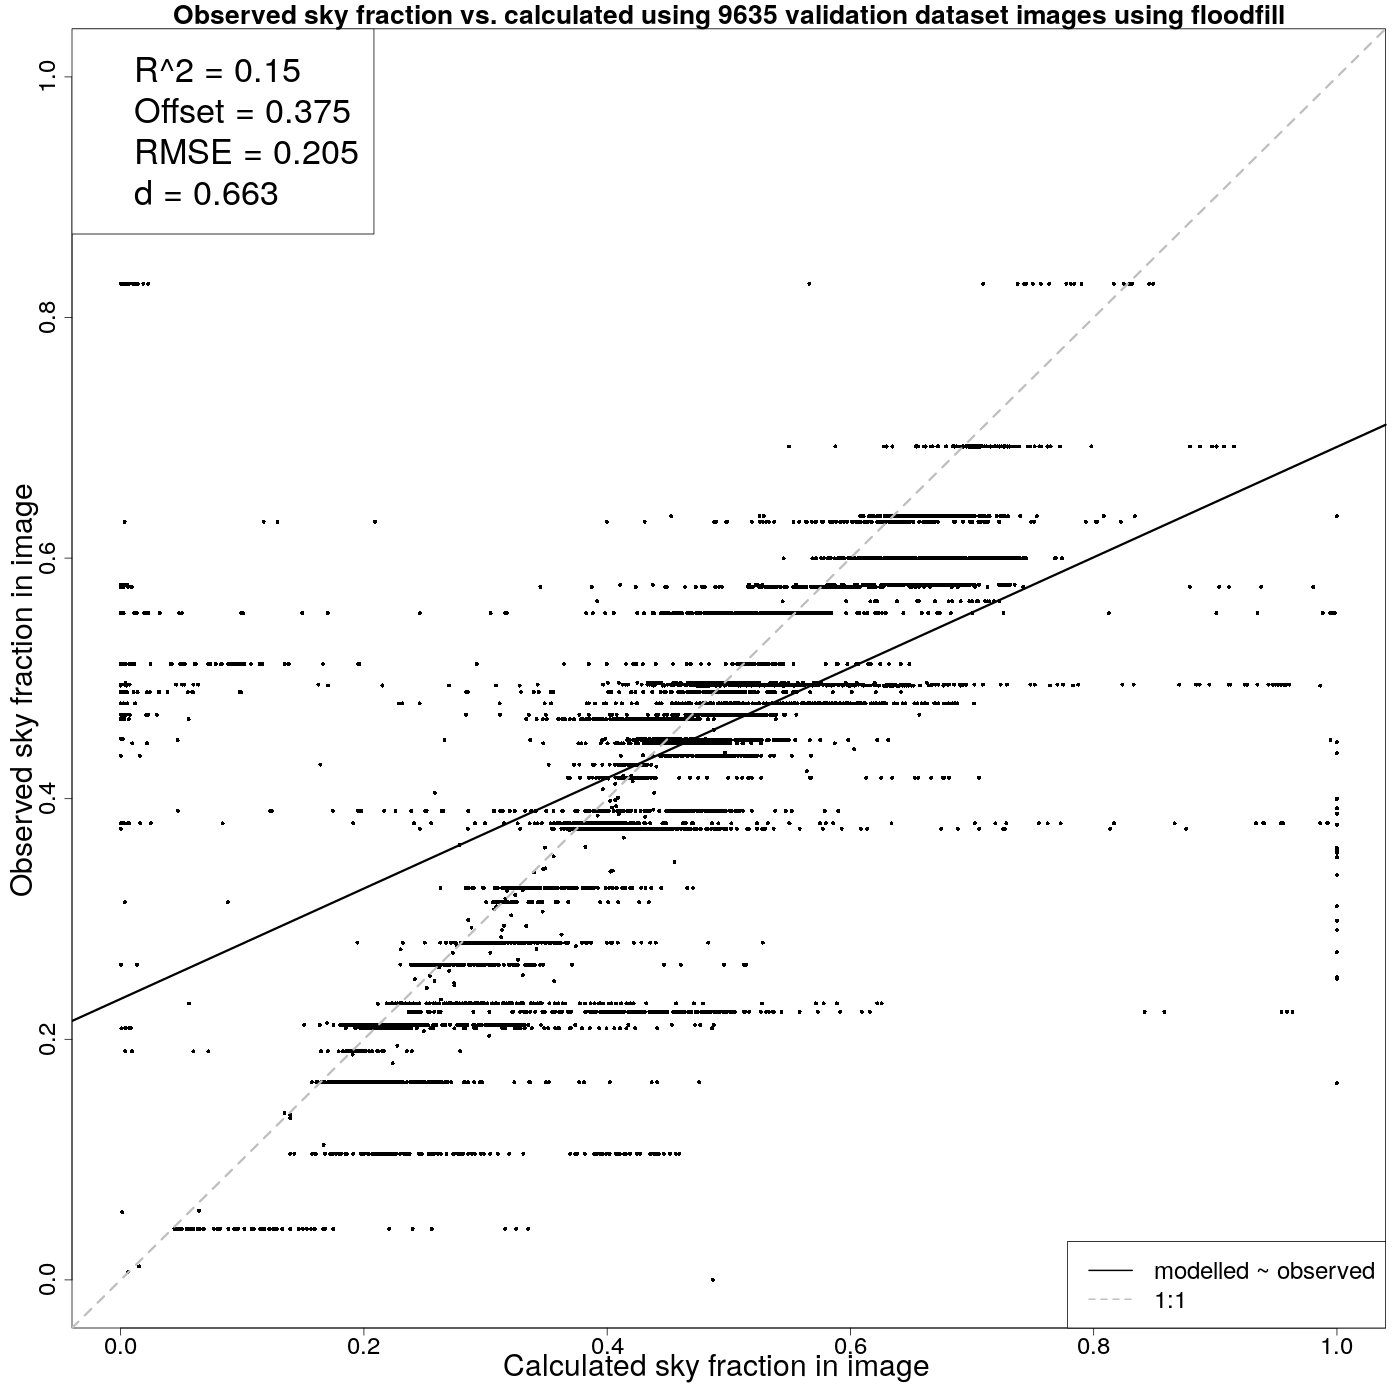
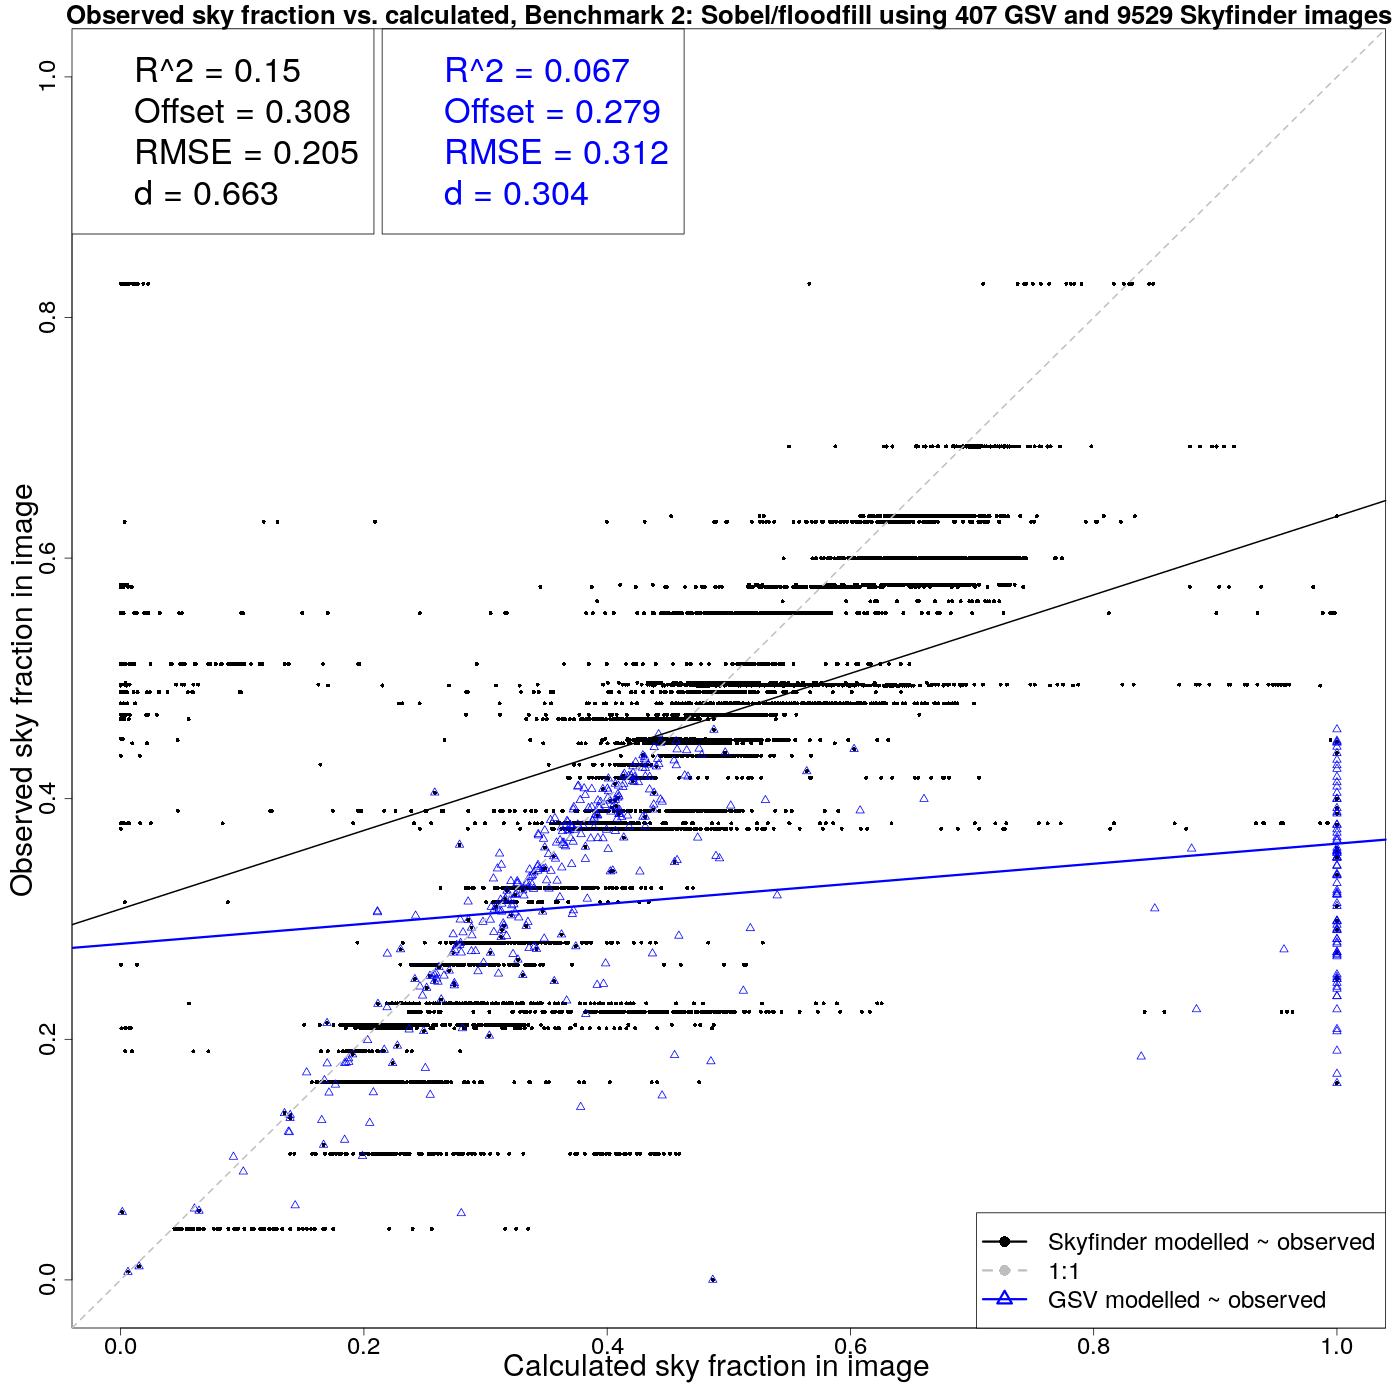
Finished updating figures

diff --git a/UrbanClimateICUC10-SVF.tex b/UrbanClimateICUC10-SVF.tex
@@ -440,7 +440,7 @@ Sobel/flood-fill&0.134&0.211&0.067&0.312 \\
 % cp -u /home/kerryn/git/2018-03-MasterITProject/SkyViewDetection/SkyfinderEvaluationOutput/Plots/ErrorPlotsGSVandSMean_7_8_300.png /home/kerryn/git/2019-01-UrbanClimateSVF/Images/ErrorPlotsCombinedIndivMean_7_8_300.png
 \textbf{c)}\includegraphics[scale=0.15]{Images/ErrorPlotsCombinedIndivKmean6.png}
 % R CMD BATCH /home/kerryn/git/2018-03-MasterITProject/SkyViewDetection/SkyfinderEvaluationOutput/Plots/scriptCombinedIndiv_Kmean6.R
-% cp -u /home/kerryn/git/2018-03-MasterITProject/SkyViewDetection/SkyfinderEvaluationOutput/Plots/ErrorPlotsCombinedIndivKmean6.png /home/kerryn/git/2019-01-UrbanClimateSVF/Images/ErrorPlotsCombinedIndivKmean6.png
+% cp -u /home/kerryn/git/2018-03-MasterITProject/SkyViewDetection/SkyfinderEvaluationOutput/Plots/ErrorPlotsGSVandSKmean6.png /home/kerryn/git/2019-01-UrbanClimateSVF/Images/ErrorPlotsCombinedIndivKmean6.png
 \textbf{d)}\includegraphics[scale=0.15]{Images/ErrorPlotsCombinedIndivSobel70.png}
 % R CMD BATCH /home/kerryn/git/2018-03-MasterITProject/SkyViewDetection/SkyfinderEvaluationOutput/Plots/scriptCombinedIndiv_Sobel70.R
 % cp -u /home/kerryn/git/2018-03-MasterITProject/SkyViewDetection/SkyfinderEvaluationOutput/Plots/ErrorPlotsGSVandSSobel70.png /home/kerryn/git/2019-01-UrbanClimateSVF/Images/ErrorPlotsCombinedIndivSobel70.png
@@ -535,11 +535,11 @@ In the evaluation of the Sobel/flood-fill algorithm, results from the Skyfinder 
 % R CMD BATCH /home/kerryn/git/2018-03-MasterITProject/SkyViewDetection/SkyfinderEvaluationOutput/Plots/scriptCombinedIndivVal_Sobel70.R
 %  cp -u /home/kerryn/git/2018-03-MasterITProject/SkyViewDetection/SkyfinderEvaluationOutput/Plots/ErrorPlotsGSVandSSobel70val.png  /home/kerryn/git/2019-01-UrbanClimateSVF/Images/ErrorPlotsGSVandSSobel70val.png 
 \textbf{c)}\includegraphics[scale=0.15]{Images/ErrorPlots2FloodfillValidation.png}
-% R CMD BATCH /home/kerryn/git/2018-03-MasterITProject/SkyViewDetection/SkyfinderEvaluationOutput/Plots/scriptFloodfillValidationFloodfillValidation.R
-% cp -u /home/kerryn/git/2018-03-MasterITProject/SkyViewDetection/SkyfinderEvaluationOutput/Plots/ErrorPlots2FloodfillValidation_2.png /home/kerryn/git/2019-01-UrbanClimateSVF/Images/ErrorPlots2FloodfillValidation.png 
+% FloodfillEvaluation.java
+% R CMD BATCH /home/kerryn/git/2018-03-MasterITProject/SkyViewDetection/SkyfinderEvaluationOutput/Plots/scriptFloodfillValidationSplitFloodfillValidationSplit.R
+% cp -u /home/kerryn/git/2018-03-MasterITProject/SkyViewDetection/SkyfinderEvaluationOutput/Plots/ErrorPlots2SplitFloodfillValidationSplit.png /home/kerryn/git/2019-01-UrbanClimateSVF/Images/ErrorPlots2FloodfillValidation.png 
 \caption{\textbf{
-a) Results of NN picks against the 9636 validation images. b) Benchmark 1: Results of Sobel\_70 against 9636 validation images.
-d) Benchmark 2: Results of Sobel/flood-fill combination against 9636 validation images.}}
+Results against the 9636 validation images using a) our adaptive NN process, b) Benchmark 1: Sobel\_70, and c) Benchmark 2: Sobel/flood-fill combination.}}
 \label{fig:errorfloodall}
 \end{figure}
 
